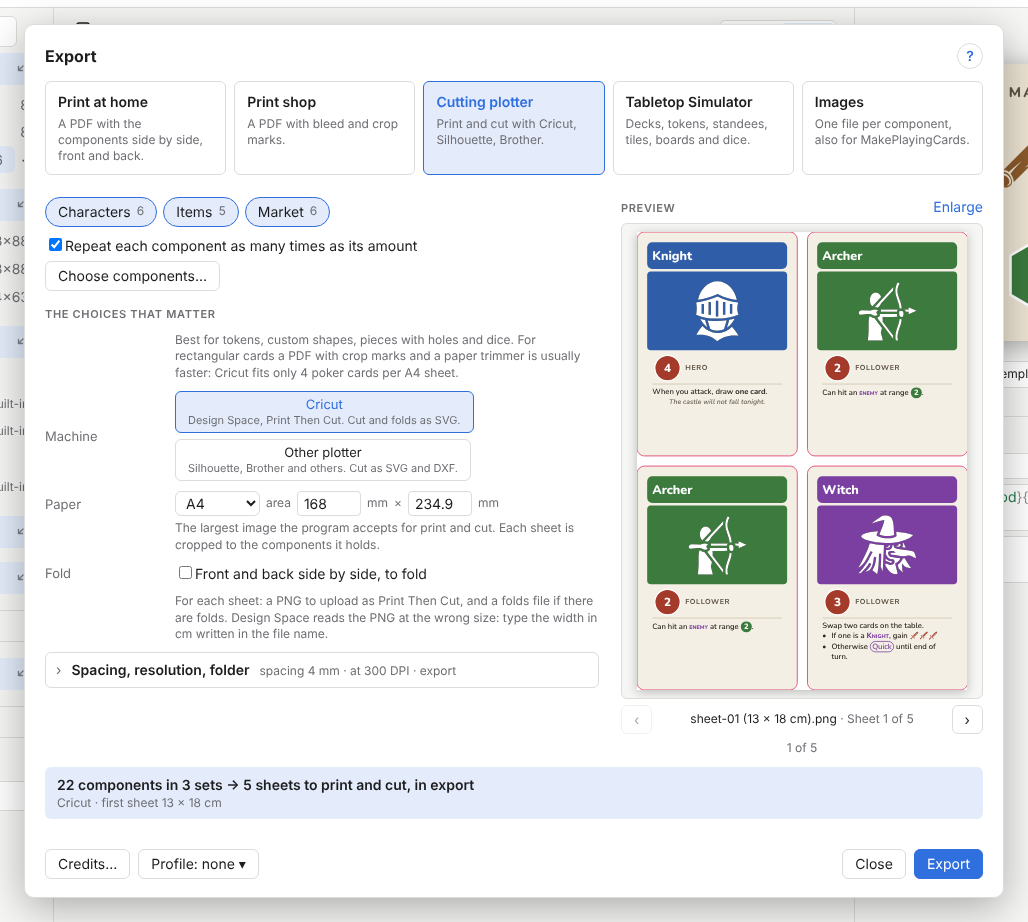
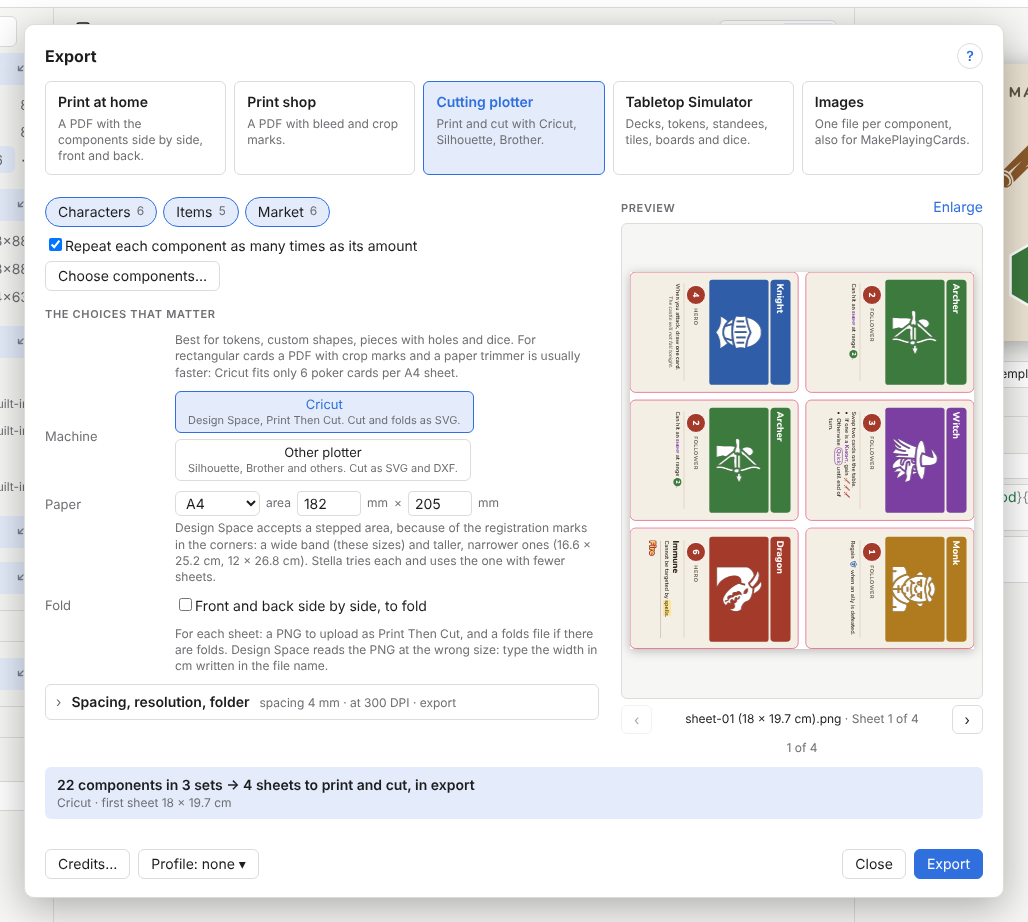
Plotter da taglio: area Cricut a fasce (larga, media, stretta)
L'area di Stampa e taglio è a gradini per i segni di registro negli
angoli; misurata su A4 in Design Space. Stella impagina in ogni fascia e
tiene quella con meno fogli: 6 carte poker per foglio invece di 4.

Claude-Session: https://claude.ai/code/session_01QmKvjxDPfT4Koc84TiDSbm

diff --git a/src/shared/__tests__/cutPlan.test.ts b/src/shared/__tests__/cutPlan.test.ts
@@ -35,23 +35,46 @@ const cards = (n: number, t: Template = poker): ExportCard[] =>
   Array.from({ length: n }, (_, i) => card(t, i + 1))
 
 describe('esportazione per plotter da taglio', () => {
-  it('Cricut A4: 4 carte poker per foglio, con il foglio ritagliato sui componenti', () => {
-    const plan = planCut(DEFAULT_CUT, [{ name: 'mazzo', cards: cards(6) }], 'gioco')
+  it('Cricut A4: 6 carte poker per foglio nella fascia larga, girate, foglio ritagliato', () => {
+    const plan = planCut(DEFAULT_CUT, [{ name: 'mazzo', cards: cards(8) }], 'gioco')
     expect(plan.sheets).toHaveLength(2)
     const [first, second] = plan.sheets
-    expect(first.page.items).toHaveLength(4)
-    // 2 colonne da 63,5 e 2 righe da 88 con 4 mm tra le carte, entro 168 × 234,9 mm
-    expect(first.width).toBeCloseTo(2 * 63.5 + 4, 2)
-    expect(first.height).toBeCloseTo(2 * 88 + 4, 2)
-    expect(first.name).toBe('sheet-01 (13.1 x 18 cm)')
+    expect(first.page.items).toHaveLength(6)
+    expect(first.page.items.every((it) => it.rotate === 90)).toBe(true)
+    // 2 colonne da 88 e 3 righe da 63,5 con 4 mm tra le carte, entro 18,2 × 20,5 cm
+    expect(first.width).toBeCloseTo(2 * 88 + 4, 2)
+    expect(first.height).toBeCloseTo(3 * 63.5 + 2 * 4, 2)
+    expect(first.name).toBe('sheet-01 (18 x 19.85 cm)')
     // un contorno chiuso per carta, nessun foro, e il primo comincia in 0, 0
-    expect(first.cut).toHaveLength(4)
+    expect(first.cut).toHaveLength(6)
     const box = ringsBounds(first.cut)!
     expect(box.x).toBeCloseTo(0, 2)
     expect(box.y).toBeCloseTo(0, 2)
     expect(second.page.items).toHaveLength(2)
     expect(plan.folder).toBe('gioco_plotter')
     expect(plan.overflow).toEqual([])
+  })
+
+  it('Cricut: un pezzo alto e stretto va nella fascia media', () => {
+    const tall = normalizeTemplate({
+      name: 't',
+      width: 150,
+      height: 240,
+      bleed: 0,
+      front: [],
+      back: []
+    })
+    const plan = planCut(DEFAULT_CUT, [{ name: 'alto', cards: [card(tall)] }], 'g')
+    expect(plan.overflow).toEqual([])
+    expect(plan.sheets[0].width).toBeCloseTo(150, 2)
+    expect(plan.sheets[0].height).toBeCloseTo(240, 2)
+    // con l'area personalizzata vale solo quella scritta
+    const custom = planCut(
+      { ...DEFAULT_CUT, paper: 'custom' },
+      [{ name: 'alto', cards: [card(tall)] }],
+      'g'
+    )
+    expect(custom.overflow).toEqual(['alto'])
   })
 
   it('contorno della carta: angoli arrotondati entro un centesimo di mm', () => {
@@ -162,8 +185,8 @@ describe('esportazione per plotter da taglio', () => {
     const plan = planCut(DEFAULT_CUT, [{ name: 'm', cards: cards(1) }], 'g')
     const [sheet] = plan.sheets
     const svg = cutSvg(sheet, 'cut')
-    // 63,5 mm = 180 px e 88 mm = 249,449 px a 72 per pollice
-    expect(svg).toContain('width="180" height="249.449"')
+    // la carta girata: 88 mm = 249,449 px e 63,5 mm = 180 px a 72 per pollice
+    expect(svg).toContain('width="249.449" height="180"')
     expect(svg).not.toMatch(/mm"/)
     const folds = cutSvg(sheet, 'folds')
     expect(folds.indexOf('id="outline"')).toBeLessThan(folds.indexOf('id="folds"'))
@@ -181,8 +204,8 @@ describe('esportazione per plotter da taglio', () => {
       (key, p) => `${key}${p ? ' ' + JSON.stringify(p) : ''}`,
       'it'
     )
-    expect(text).toContain('"w":"6,35","h":"8,8"')
-    expect(plan.sheets[0].name).toBe('sheet-01 (6,35 x 8,8 cm)')
+    expect(text).toContain('"w":"8,8","h":"6,35"')
+    expect(plan.sheets[0].name).toBe('sheet-01 (8,8 x 6,35 cm)')
     expect(cm(182.9)).toBe('18.29')
   })
 

diff --git a/src/shared/cutPlan.ts b/src/shared/cutPlan.ts
@@ -7,6 +7,7 @@
 import { FillRule, unionD, type PathsD } from 'clipper2-ts'
 import {
   DEFAULT_PDF,
+  cutAreas,
   safeName,
   type CutOptions,
   type ExportSet,
@@ -94,6 +95,38 @@ export function cm(mm: number, locale = 'en'): string {
 }
 
 export function planCut(o: CutOptions, sets: ExportSet[], project: string, locale = 'en'): CutPlan {
+  // Cricut: l'area è fatta di fasce; si tiene quella con meno fogli (a parità, la prima)
+  let best: ReturnType<typeof planPages> | null = null
+  for (const [areaWidth, areaHeight] of cutAreas(o)) {
+    const p = planPages({ ...o, areaWidth, areaHeight }, sets, project)
+    if (
+      !best ||
+      p.overflow.length < best.overflow.length ||
+      (p.overflow.length === best.overflow.length && p.pages.length < best.pages.length)
+    )
+      best = p
+  }
+  const { pages, overflow, notes } = best!
+  const digits = Math.max(2, String(pages.length).length)
+  const sheets: CutSheet[] = []
+  pages.forEach((p) => {
+    const sheet = cropSheet(p)
+    if (!sheet) return
+    const n = String(sheets.length + 1).padStart(digits, '0')
+    sheets.push({
+      ...sheet,
+      name: `sheet-${n} (${cm(sheet.width, locale)} x ${cm(sheet.height, locale)} cm)`
+    })
+  })
+  return { folder: `${safeName(project || 'cards')}_plotter`, sheets, overflow, notes }
+}
+
+/** Le pagine per un'area sola */
+function planPages(
+  o: CutOptions,
+  sets: ExportSet[],
+  project: string
+): { pages: ScenePage[]; overflow: string[]; notes: Message[] } {
   const straight = planPdf(cutPdfOptions(o), sets, project)
   let { overflow, notes } = straight
   let pages = straight.docs.flatMap((d) => d.pages)
@@ -114,18 +147,7 @@ export function planCut(o: CutOptions, sets: ExportSet[], project: string, local
       pages = turnedPages.map(turnPage)
     }
   }
-  const digits = Math.max(2, String(pages.length).length)
-  const sheets: CutSheet[] = []
-  pages.forEach((p) => {
-    const sheet = cropSheet(p)
-    if (!sheet) return
-    const n = String(sheets.length + 1).padStart(digits, '0')
-    sheets.push({
-      ...sheet,
-      name: `sheet-${n} (${cm(sheet.width, locale)} x ${cm(sheet.height, locale)} cm)`
-    })
-  })
-  return { folder: `${safeName(project || 'cards')}_plotter`, sheets, overflow, notes }
+  return { pages, overflow, notes }
 }
 
 const plainItem = (it: SceneItem): boolean =>

diff --git a/src/shared/export.ts b/src/shared/export.ts
@@ -262,13 +262,42 @@ export const DEFAULT_PDF: PdfOptions = {
 
 /**
  * Area di Stampa e taglio di Cricut Design Space per foglio, in mm, larghezza per altezza in
- * verticale. Cricut dichiara 18,3 cm di larghezza su A4, ma con una Maker la stampa passa solo
- * sotto 16,9 cm (Design Space aggiunge l'abbondanza): A4 e Letter 16,8 cm. A3: da provare.
+ * verticale. Non è un rettangolo: i segni di registro negli angoli la riducono a tre fasce,
+ * misurate su A4 nella tela di Design Space (Cricut Maker): larga 18,4 × 20,7 cm, media
+ * 16,8 × 25,5, stretta 12 × 27. Un'immagine deve stare tutta in una fascia. Qui la fascia
+ * larga, con 2 mm di margine; le altre in CRICUT_BANDS. Letter: le stesse fasce accorciate
+ * della differenza di altezza dichiarata da Cricut (da provare). A3: da provare.
  */
 export const CRICUT_AREAS: Record<Exclude<CutPaper, 'custom'>, [number, number]> = {
-  A4: [168, 234.9],
-  Letter: [168, 234.9],
+  A4: [182, 205],
+  Letter: [182, 188],
   A3: [270.3, 392.2]
+}
+
+/** Le altre fasce dell'area Cricut, provate dopo quella di CRICUT_AREAS */
+export const CRICUT_BANDS: Record<Exclude<CutPaper, 'custom'>, [number, number][]> = {
+  A4: [
+    [166, 252],
+    [120, 268]
+  ],
+  Letter: [
+    [166, 235],
+    [120, 250]
+  ],
+  A3: []
+}
+
+/**
+ * Le aree da provare: quella scritta e, con Cricut e un foglio non personalizzato, le altre
+ * fasce dell'area di Stampa e taglio
+ */
+export function cutAreas(o: CutOptions): [number, number][] {
+  const own: [number, number] = [o.areaWidth, o.areaHeight]
+  if (o.machine !== 'cricut' || o.paper === 'custom') return [own]
+  const [w, h] = CRICUT_AREAS[o.paper]
+  // aree cambiate a mano senza passare a «personalizzata»: solo quella scritta
+  if (Math.abs(w - o.areaWidth) > 0.01 || Math.abs(h - o.areaHeight) > 0.01) return [own]
+  return [own, ...CRICUT_BANDS[o.paper]]
 }
 
 /** Area degli altri plotter, da controllare nel loro programma: il foglio meno 15 mm per lato */

diff --git a/src/renderer/src/i18n/it.ts b/src/renderer/src/i18n/it.ts
@@ -1972,6 +1972,8 @@ export const it: Record<MessageKey, string> = {
   'cut.area': 'area',
   'cut.areaHint':
     'L’immagine più grande che il programma accetta per stampa e taglio. Ogni foglio si ritaglia sui componenti che contiene.',
+  'cut.areaBands':
+    'Design Space accetta un’area a gradini, per i segni di registro negli angoli: una fascia larga (queste misure) e altre più alte e strette ({bands}). Stella le prova tutte e usa quella con meno fogli.',
   'cut.foldPairs': 'Fronte e retro affiancati, da piegare',
   'cut.foldHint': 'Ogni componente diventa un pezzo largo il doppio, con la piega al centro.',
   'cut.hintCricut':
@@ -1979,7 +1981,7 @@ export const it: Record<MessageKey, string> = {
   'cut.hintOther':
     'Per ogni foglio: un PNG da stampare, e le linee di taglio in SVG e DXF della stessa misura. Silhouette Studio Basic apre solo il DXF.',
   'cut.when':
-    'Conviene per segnalini, sagome, pezzi con fori e dadi. Per le carte rettangolari di solito si fa prima con il PDF con i segni di taglio e una taglierina: Cricut mette solo 4 carte poker per foglio A4.',
+    'Conviene per segnalini, sagome, pezzi con fori e dadi. Per le carte rettangolari di solito si fa prima con il PDF con i segni di taglio e una taglierina: Cricut mette solo 6 carte poker per foglio A4.',
   'cut.moreSection': 'Spaziatura, risoluzione, cartella',
   'cut.spacingHint':
     'Spazio tra i componenti. Il plotter taglia lungo il contorno, bastano pochi millimetri.',

diff --git a/src/renderer/src/i18n/en.ts b/src/renderer/src/i18n/en.ts
@@ -1943,6 +1943,8 @@ export const en = {
   'cut.area': 'area',
   'cut.areaHint':
     'The largest image the program accepts for print and cut. Each sheet is cropped to the components it holds.',
+  'cut.areaBands':
+    'Design Space accepts a stepped area, because of the registration marks in the corners: a wide band (these sizes) and taller, narrower ones ({bands}). Stella tries each and uses the one with fewer sheets.',
   'cut.foldPairs': 'Front and back side by side, to fold',
   'cut.foldHint': 'Each component becomes one piece twice as wide, with a fold line in the middle.',
   'cut.hintCricut':
@@ -1950,7 +1952,7 @@ export const en = {
   'cut.hintOther':
     'For each sheet: a PNG to print, and the cut lines as SVG and DXF of the same size. Silhouette Studio Basic opens only the DXF.',
   'cut.when':
-    'Best for tokens, custom shapes, pieces with holes and dice. For rectangular cards a PDF with crop marks and a paper trimmer is usually faster: Cricut fits only 4 poker cards per A4 sheet.',
+    'Best for tokens, custom shapes, pieces with holes and dice. For rectangular cards a PDF with crop marks and a paper trimmer is usually faster: Cricut fits only 6 poker cards per A4 sheet.',
   'cut.moreSection': 'Spacing, resolution, folder',
   'cut.spacingHint':
     'Space between components. The plotter cuts along the outline, so a few millimetres are enough.',

diff --git a/src/renderer/src/export/ExportDialog.tsx b/src/renderer/src/export/ExportDialog.tsx
@@ -10,6 +10,7 @@ import {
   DEFAULT_TTS,
   DEFAULT_CUT,
   cutArea,
+  cutAreas,
   pdfGrid,
   ttsSetObject,
   ttsDefaultThickness,
@@ -947,7 +948,21 @@ export default function ExportDialog({
           { value: 'other', label: t('cut.machineOther'), note: t('cut.machineOtherNote') }
         ]}
       />
-      <Row label={t('export.paper')} hint={t('cut.areaHint')}>
+      <Row
+        label={t('export.paper')}
+        hint={
+          cutAreas(cut).length > 1
+            ? t('cut.areaBands', {
+                bands: cutAreas(cut)
+                  .slice(1)
+                  .map(
+                    ([w, h]) => `${(w / 10).toLocaleString(ui)} × ${(h / 10).toLocaleString(ui)} cm`
+                  )
+                  .join(', ')
+              })
+            : t('cut.areaHint')
+        }
+      >
         {select(
           cut.paper,
           [

diff --git a/skill/stella/SKILL.md b/skill/stella/SKILL.md
@@ -107,7 +107,7 @@ Older projects have `naibi.json` or `gamecreator.json` instead of `stella.json`;
 - `sets[].sheet` is optional (default: the set's name). Several sets may name the same sheet: they share its rows and each draws them with its own template; `rename-set` then keeps the sheet's name. `sets[].hiddenColumns` (columns hidden in the app's table) and `sets[].showComputed` (also show fixed and formula layers, read only) and `sets[].pinnedProperties` (`layer.property` columns pinned in the card form) and `sets[].colors` (table colors: `{ "columns": [{ "column": "faction", "colors": { "Red": "#fbe0e0" } }], "wholeRow": true }`; number keys are `=n` or bands `b0`-`b2`) are view preferences only; they never change the cards. `sets[].seed` (whole number) is the seed of the set's random numbers (see formulas); `sets[].generator` is written by the app (last random Generate settings, for Regenerate): leave it alone. `sets[].generations` is also written by the app (generations saved with a name in Generate, called back to fill the window): leave it alone unless the user asks to rename or remove one. A set's template is `templates/<template>.json`.
 - `styles`: name → markup attributes. `heading1`, `heading2` and `note` always exist and can be redefined.
 - `variables`: `image` (`src` file name; optional `tint`, `scale` (height relative to the line, 1 = normal), `raise` (% of the line), `rotate` (degrees), `flip` (`h`, `v`, `hv`), `opacity` 0-1, `stroke` (outline following the image's shape: `{ "color": "white", "width": 0.3 }`, width in mm or `"8%"` of the image height; image layers using the variable take it unless they have their own), `bg` (a background behind the image everywhere the variable is used: `circle`, `square`, `rounded`, `hexagon`, `diamond`, a file or another image variable), `bgColor`, `bgPad` (space around the image, fraction of the side, default 0.18); e.g. `"water": { "type": "image", "src": "drop", "tint": "white", "bg": "circle", "bgColor": "#C0392B" }` is a white drop in a red circle), `text` (markup that replaces `{name}`; it can take parameters, see below), `color` (usable by name in every colour property, which also accepts `{field}` to take a card field such as a value layer; redefining a CSS colour name such as `red` changes it everywhere), `value` (constant text or number, also usable in formulas).
-- `export` holds the options of the last export of each kind the named profiles (`export.named`) and the kind of the last export (`export.last`, used by Repeat the last export), written by the app; `order` holds the sidebar order. Leave existing ones alone unless asked; when the user asks for an export and the project has no fitting profile (`info` lists them), add one to `export.named` and run it with `export --profile`. A profile is `{ "name": "Print", "kind": "pdf" | "images" | "tts" | "cut", "options": { ... } }`; options left out take the app's defaults, so `{}` is a valid start. Useful options: all kinds `sets` (set names, empty = all), `copies` (true = repeat cards by `amount`; default true for PDF and TTS, false for images); PDF `page` (`A4`, `A3`, `Letter`), `landscape`, `margin` (mm, 10), `bleed` (false), `marks` (`corners`, `lines`, `none`), `sides` (`front`, `back`, `both`), `duplex` (`none`, `long`, `short`: backs on alternate pages, mirrored), `split` (`single`, `set`, `side`), `dice` (`faces` or `net`: die sets as a foldable net with glue tabs, every die except the d2 coin; d6/d3 need square faces; with `faces` triangle faces interlock; cut and fold lines only with `marks`; `tabDepth` mm, 0 = automatic); images `format` (`png`, `jpg`, `webp`, `svg`), `dpi` (300), `bleed`, `sides`, `pattern` (file names, `%set/%n`); cut (cutting plotters: one PNG per sheet cropped to the components, plus cut/fold files and `instructions.txt` in `export/<project>_plotter/`) `machine` (`cricut`: PNG for Print Then Cut, fold SVG; `other`: also cut SVG and DXF), `paper` (`A4`, `Letter`, `A3`, `custom`), `areaWidth`/`areaHeight` (mm usable area, Cricut A4/Letter 168 × 234.9), `spacing` (mm, 4), `fold` (front and back side by side as one piece), `dpi`; TTS `destination` (`project` = `export/tts/`, `tts` = Tabletop Simulator's Saved Objects folder, `both`, the default), `objects` (below). PDF and image files go to `export/` unless `folder` is set. In Tabletop Simulator options (`export.tts` or a named profile of kind `tts`), `objects` maps a set name to what it becomes: `{ "type": "card" | "token" | "standee" | "tile" | "board" | "die", "thickness": 2, "edgeColor": "#FFFFFF", "tags": "enemy, card" }` (`tags`: Tabletop Simulator tags of the set's components, `{field}` allowed, replacing the template's `ttsTags`; leave it out to use the template's; thickness in mm, default 2, 10 for standees; edge color for tiles and boards; `die` makes a real die (rounded edges, shape from the template's `die`) from every N cards, one per face, card 1 on face 1, opposite faces add up to N+1; the d3 is a cube 1-2-3-3-2-1, the d4 reads the top corner, the d2 is a coin; wants a die face template); a set not listed takes the `kind` of its template (no `kind`: a deck of cards).
+- `export` holds the options of the last export of each kind the named profiles (`export.named`) and the kind of the last export (`export.last`, used by Repeat the last export), written by the app; `order` holds the sidebar order. Leave existing ones alone unless asked; when the user asks for an export and the project has no fitting profile (`info` lists them), add one to `export.named` and run it with `export --profile`. A profile is `{ "name": "Print", "kind": "pdf" | "images" | "tts" | "cut", "options": { ... } }`; options left out take the app's defaults, so `{}` is a valid start. Useful options: all kinds `sets` (set names, empty = all), `copies` (true = repeat cards by `amount`; default true for PDF and TTS, false for images); PDF `page` (`A4`, `A3`, `Letter`), `landscape`, `margin` (mm, 10), `bleed` (false), `marks` (`corners`, `lines`, `none`), `sides` (`front`, `back`, `both`), `duplex` (`none`, `long`, `short`: backs on alternate pages, mirrored), `split` (`single`, `set`, `side`), `dice` (`faces` or `net`: die sets as a foldable net with glue tabs, every die except the d2 coin; d6/d3 need square faces; with `faces` triangle faces interlock; cut and fold lines only with `marks`; `tabDepth` mm, 0 = automatic); images `format` (`png`, `jpg`, `webp`, `svg`), `dpi` (300), `bleed`, `sides`, `pattern` (file names, `%set/%n`); cut (cutting plotters: one PNG per sheet cropped to the components, plus cut/fold files and `instructions.txt` in `export/<project>_plotter/`) `machine` (`cricut`: PNG for Print Then Cut, fold SVG; `other`: also cut SVG and DXF), `paper` (`A4`, `Letter`, `A3`, `custom`), `areaWidth`/`areaHeight` (mm usable area, Cricut A4 182 × 205 = the wide band; with Cricut and a preset paper Stella also tries the taller bands 166 × 252 and 120 × 268 and keeps the one with fewer sheets), `spacing` (mm, 4), `fold` (front and back side by side as one piece), `dpi`; TTS `destination` (`project` = `export/tts/`, `tts` = Tabletop Simulator's Saved Objects folder, `both`, the default), `objects` (below). PDF and image files go to `export/` unless `folder` is set. In Tabletop Simulator options (`export.tts` or a named profile of kind `tts`), `objects` maps a set name to what it becomes: `{ "type": "card" | "token" | "standee" | "tile" | "board" | "die", "thickness": 2, "edgeColor": "#FFFFFF", "tags": "enemy, card" }` (`tags`: Tabletop Simulator tags of the set's components, `{field}` allowed, replacing the template's `ttsTags`; leave it out to use the template's; thickness in mm, default 2, 10 for standees; edge color for tiles and boards; `die` makes a real die (rounded edges, shape from the template's `die`) from every N cards, one per face, card 1 on face 1, opposite faces add up to N+1; the d3 is a cube 1-2-3-3-2-1, the d4 reads the top corner, the d2 is a coin; wants a die face template); a set not listed takes the `kind` of its template (no `kind`: a deck of cards).
 
 ## Data sheets
 

diff --git a/docs/guida/README.md b/docs/guida/README.md
@@ -1071,9 +1071,9 @@ I fogli si richiamano con indirizzi locali, quindi il mazzo funziona sul compute
 
 **Plotter da taglio** prepara i componenti per una macchina che stampa e taglia: Cricut (Design Space, funzione **Stampa e taglia**), Silhouette, Brother ScanNCut e simili. La stampante stampa il foglio, la macchina legge i segni di registro e taglia lungo il contorno di ogni componente, angoli arrotondati, esagoni, sagome e fori compresi.
 
-Conviene per i pezzi che una taglierina non taglia: segnalini tondi o sagomati, esagoni, pezzi con fori, dadi da piegare. Per le carte rettangolari di solito si fa prima con il PDF con i segni di taglio e una taglierina, perché con Cricut su A4 entrano solo 4 carte poker per foglio.
+Conviene per i pezzi che una taglierina non taglia: segnalini tondi o sagomati, esagoni, pezzi con fori, dadi da piegare. Per le carte rettangolari di solito si fa prima con il PDF con i segni di taglio e una taglierina, perché con Cricut su A4 entrano solo 6 carte poker per foglio.
 
-I programmi di queste macchine accettano un'immagine non più grande di un'area fissa, che dipende dalla carta: **Macchina** e **Carta** la scelgono (per Cricut su A4 e Letter 16,8 × 23,49 cm: Cricut dichiara fino a 18,3 cm di larghezza, ma con una Maker la stampa passa solo sotto 16,9 cm, perché Design Space aggiunge l'abbondanza), e i due campi accanto la cambiano a mano. Stella mette nell'area quanti più componenti possibile, girandoli se così ne entrano di più, con la **Spaziatura** tra l'uno e l'altro (di base 4 mm). Poi ritaglia ogni foglio sui componenti che contiene, così il programma della macchina non deve indovinare dove cominciano.
+I programmi di queste macchine accettano un'immagine non più grande di un'area fissa, che dipende dalla carta: **Macchina** e **Carta** la scelgono e i due campi accanto la cambiano a mano. L'area di Cricut è a gradini, perché negli angoli ci sono i segni di registro: su A4 una fascia larga 18,2 × 20,5 cm, una media 16,6 × 25,2 cm e una stretta 12 × 26,8 cm, e ogni immagine deve stare tutta in una. Stella le prova tutte e usa quella che dà meno fogli (con le carte poker la fascia larga, con 6 carte girate). Stella mette nell'area quanti più componenti possibile, girandoli se così ne entrano di più, con la **Spaziatura** tra l'uno e l'altro (di base 4 mm). Poi ritaglia ogni foglio sui componenti che contiene, così il programma della macchina non deve indovinare dove cominciano.
 
 ![Esportazione per plotter da taglio](img/esporta-plotter.png)
 

diff --git a/docs/guide/README.md b/docs/guide/README.md
@@ -1071,9 +1071,9 @@ Sheets are referenced by local addresses, so the deck works on the computer that
 
 **Cutting plotter** prepares the components for a machine that prints and cuts: Cricut (Design Space, **Print Then Cut**), Silhouette, Brother ScanNCut and similar. The printer prints the sheet, the machine reads the registration marks and cuts along the outline of each component, rounded corners, hexagons, custom shapes and holes included.
 
-It is best for pieces a paper trimmer cannot cut: round or custom-shaped tokens, hexagons, pieces with holes, dice to fold. For rectangular cards a PDF with crop marks and a trimmer is usually faster, since Cricut fits only 4 poker cards per A4 sheet.
+It is best for pieces a paper trimmer cannot cut: round or custom-shaped tokens, hexagons, pieces with holes, dice to fold. For rectangular cards a PDF with crop marks and a trimmer is usually faster, since Cricut fits only 6 poker cards per A4 sheet.
 
-The programs of these machines accept an image no larger than a fixed area, which depends on the paper: **Machine** and **Paper** choose it (for Cricut on A4 and Letter 16.8 × 23.49 cm: Cricut states up to 18.3 cm wide, but with a Maker printing works only below 16.9 cm, because Design Space adds bleed), and the two fields next to it change it by hand. Stella fits as many components as it can in the area, turning them if more fit that way, with the **Spacing** between them (4 mm by default). Then it crops each sheet to the components it holds, so the machine's program does not have to guess where they start.
+The programs of these machines accept an image no larger than a fixed area, which depends on the paper: **Machine** and **Paper** choose it and the two fields next to it change it by hand. The Cricut area is stepped, because of the registration marks in the corners: on A4 a wide band of 18.2 × 20.5 cm, a middle one of 16.6 × 25.2 cm and a narrow one of 12 × 26.8 cm, and each image must fit entirely in one of them. Stella tries them all and uses the one that gives fewer sheets (for poker cards the wide band, with 6 cards turned). Stella fits as many components as it can in the area, turning them if more fit that way, with the **Spacing** between them (4 mm by default). Then it crops each sheet to the components it holds, so the machine's program does not have to guess where they start.
 
 ![Export for cutting plotters](img/esporta-plotter.png)
 

diff --git a/docs/specifica.md b/docs/specifica.md
@@ -559,7 +559,7 @@ Esportazione `kind: "cut"` (`src/shared/cutPlan.ts`) per le macchine che stampan
 | risoluzione | DPI del PNG, di base 300                                                                                  |
 | piegatura   | fronte e retro affiancati come pezzo unico (`fold`); linguette dei dadi (`tabDepth`)                      |
 
-Aree di base per Cricut: A4 e Letter 168 × 234,9 mm, A3 270,3 × 392,2 (da provare). Cricut dichiara su A4 fino a 18,3 × 26,98 cm, ma nella prova con una Cricut Maker la stampa passa solo sotto 16,9 cm di larghezza (Design Space aggiunge l'abbondanza attorno all'immagine). Con questa area entrano 4 carte poker per foglio. Per gli altri plotter una stima prudente (A4 180 × 267, Letter 185,9 × 249,4, A3 267 × 390).
+Area di Cricut: non è un rettangolo, perché i segni di registro negli angoli la riducono a gradini. Misurata nella tela di Design Space su A4 (Cricut Maker): fascia larga 18,4 × 20,7 cm, media 16,8 × 25,5, stretta 12 × 27 (i 18,3 × 26,98 cm che Cricut dichiara sono il massimo in larghezza e in altezza, non insieme). Un'immagine deve stare tutta in una fascia. Stella usa le fasce con 2 mm di margine (`CRICUT_AREAS`, la larga, e `CRICUT_BANDS`, le altre: A4 182 × 205, 166 × 252, 120 × 268 mm) e, con Cricut e un foglio non personalizzato, impagina in ciascuna e tiene quella con meno fogli (`cutAreas`). Con le carte poker la fascia larga dà 6 carte girate per foglio (provato: 18 × 19,7 cm passa, 16,9 cm di larghezza e oltre con l'altezza della fascia media no). Letter: le stesse fasce accorciate della differenza di altezza dichiarata (182 × 188, 166 × 235, 120 × 250, da provare); A3 270,3 × 392,2 (da provare). Per gli altri plotter una stima prudente (A4 180 × 267, Letter 185,9 × 249,4, A3 267 × 390).
 
 L'impaginazione riusa quella del PDF (`cutPdfOptions`): pagina grande quanto l'area, margini zero, nessun segno, angoli e forme dei template, solo fronte, set uno dopo l'altro, dadi come sviluppi. Le coppie da piegare non si ruotano nella griglia: se con l'area girata i fogli sono meno, si impagina girata e si gira ogni foglio di 90° in senso orario (le carte diventano matrici). Ogni foglio si ritaglia poi sul riquadro dell'unione dei contorni dei componenti, che parte da 0, 0: PNG e SVG hanno la stessa misura e si allineano in alto a sinistra anche se il programma ritaglia l'SVG sul contenuto.
 
